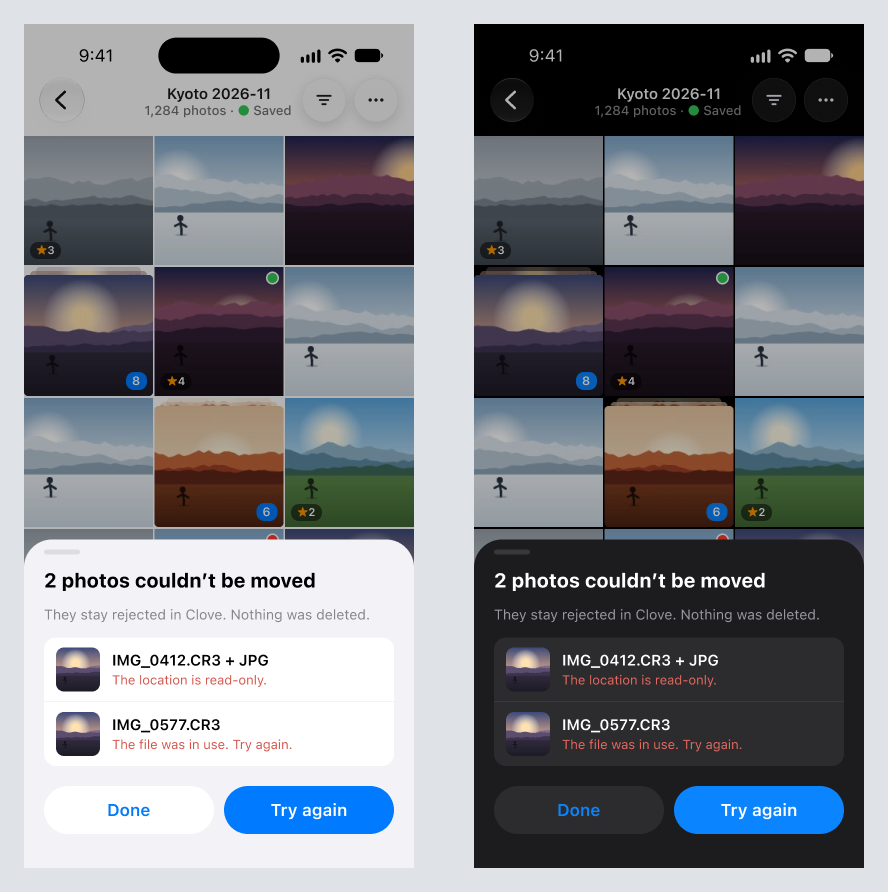
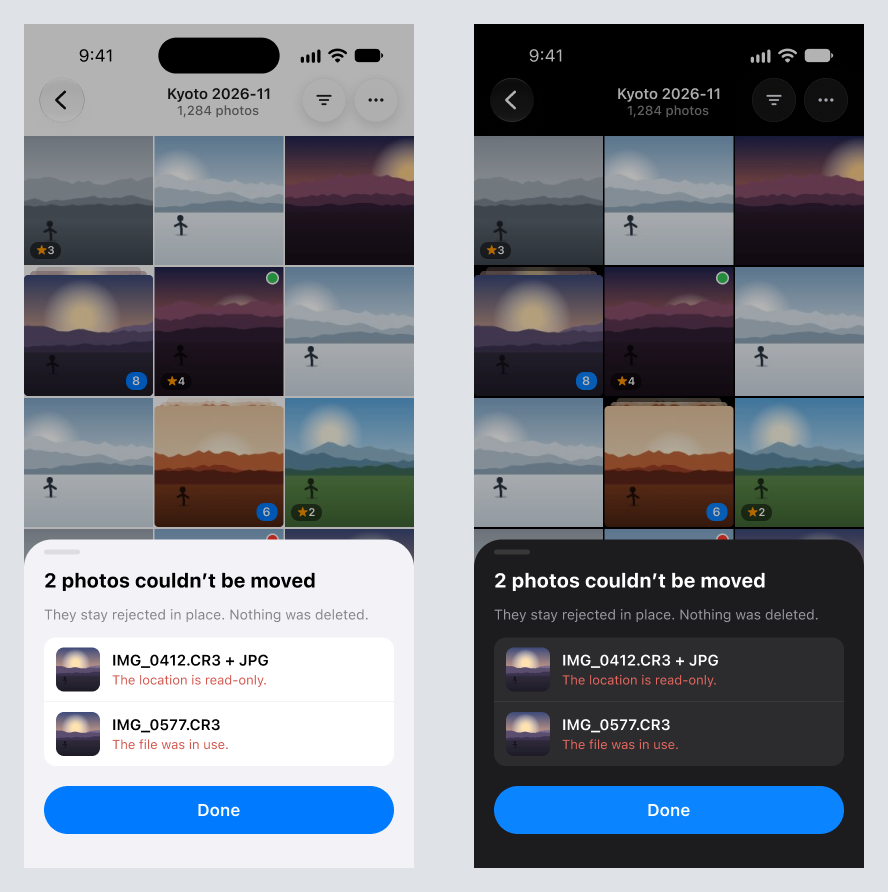
Sync the design handoff frames with the app on main
Update the Figma frames and the handoff to match what main (7470617)
builds: no save status anywhere, groups culled in detail with the
Reject N unmarked pill, rejected photos bright with a corner glyph, the
save and read failure toasts, glyphs for Not connected and View only,
and a Done-only Couldn't move sheet. Add provisional iPad sidebar,
Locations and rejected frames, a Duo rejected frame, and a proposal
frame for the swipe star bar's cleared step (#125). Removed frames and
the 10 Nov versions of redrawn ones move to the Figma Archive page.

Claude-Session: https://claude.ai/code/session_01NdeqBr3nLyagZRGCvsx2vS

diff --git a/design/handoff/screens.md b/design/handoff/screens.md
@@ -47,13 +47,13 @@ Devices:
 | [Default](https://www.figma.com/design/xJcgQ7FziNyPM7UToZvkmq/Clove-%E2%80%94-Native-concept?node-id=159-1596) · [png](screens/02-grid-default.png) | 159:1596 |
 | [Filter menu](https://www.figma.com/design/xJcgQ7FziNyPM7UToZvkmq/Clove-%E2%80%94-Native-concept?node-id=159-2251) · [png](screens/02-grid-filter-menu-unmarked-active.png) | 159:2251 |
 | [Select mode](https://www.figma.com/design/xJcgQ7FziNyPM7UToZvkmq/Clove-%E2%80%94-Native-concept?node-id=176-2767) · [png](screens/02-grid-select-mode-batch-capsule.png) | 176:2767 |
-| [Batch result](https://www.figma.com/design/xJcgQ7FziNyPM7UToZvkmq/Clove-%E2%80%94-Native-concept?node-id=176-3424) · [png](screens/02-grid-batch-result-partial-failure.png) | 176:3424 |
+| [Read failure toast](https://www.figma.com/design/xJcgQ7FziNyPM7UToZvkmq/Clove-%E2%80%94-Native-concept?node-id=243-3739) · [png](screens/02-grid-read-failure-toast.png) | 243:3739 |
 | [Opening 1: reading](https://www.figma.com/design/xJcgQ7FziNyPM7UToZvkmq/Clove-%E2%80%94-Native-concept?node-id=211-1741) · [png](screens/02-grid-opening-1-reading-photos.png) | 211:1741 |
 | [Opening 2: grouping](https://www.figma.com/design/xJcgQ7FziNyPM7UToZvkmq/Clove-%E2%80%94-Native-concept?node-id=211-2332) · [png](screens/02-grid-opening-2-finding-similar-shots.png) | 211:2332 |
 | ["…" menu and no-preview tile](https://www.figma.com/design/xJcgQ7FziNyPM7UToZvkmq/Clove-%E2%80%94-Native-concept?node-id=213-1422) · [png](screens/02-grid-more-menu-no-preview-tile.png) | 213:1422 |
 
 **Default**
-- The top bar has Back, the folder title, the subtitle "1,284 photos · ● Saved", then the **Filter** and **"…"** icon buttons. There is no filter bar, status row or bottom toolbar.
+- The top bar has Back, the folder title, the subtitle "1,284 photos", then the **Filter** and **"…"** icon buttons. There is no filter bar, status row or bottom toolbar.
 - A **group** of similar shots is one stacked tile with a count badge in `group`. Tapping it opens detail on the first unmarked member, or the first member if all are marked, with the filmstrip group expanded. A single photo opens detail.
 - A **rejected** photo is dimmed (`opacity/rejected`) with no ✕ badge. The rating badge and label dot stay. The RAW+JPEG badge is only in Info.
 - **Move Rejects** is a 48 pt round glass icon button (a tray with a down arrow) at the bottom right. It has no count and shows only when rejects exist. It always opens the confirm sheet first.
@@ -62,7 +62,7 @@ Devices:
 
 **Select mode**: the title becomes "7 selected" and **Done** replaces Filter, "…" and Move Rejects. Selected tiles get the standard blue check, the only place a check is used. The same mark capsule as detail appears and applies to the whole selection.
 
-**Batch result**: a toast above the capsule says "Saved 5 · 2 failed · Retry".
+**Read failure toast**: when a sidecar can't be read while a folder opens, one glass toast at the bottom (the Move Rejects toast position) says "Couldn't read some marks." It has no action and hides after about 6 seconds. There is no save status anywhere: no Saved dot, no Saving pulse, no batch result toast. A failed batch mark shows the save failure toast below.
 
 **Opening a folder.** There is no blocking screen. The grid shows straight away.
 - Stage 1, reading: the subtitle is "412 of 1,284", a 2 pt line under the toolbar fills in `accent`, unread cells are plain placeholders, and there are no stacks yet. Existing XMP marks appear as they are read.
@@ -80,13 +80,14 @@ Devices:
 | [Label popover](https://www.figma.com/design/xJcgQ7FziNyPM7UToZvkmq/Clove-%E2%80%94-Native-concept?node-id=154-1653) · [png](screens/03-detail-label-popover-open.png) | 154:1653 |
 | [Swipe-up star bar](https://www.figma.com/design/xJcgQ7FziNyPM7UToZvkmq/Clove-%E2%80%94-Native-concept?node-id=154-1968) · [png](screens/03-detail-swipe-up-star-bar.png) | 154:1968 |
 | [Info sheet](https://www.figma.com/design/xJcgQ7FziNyPM7UToZvkmq/Clove-%E2%80%94-Native-concept?node-id=157-1584) · [png](screens/03-detail-info-sheet.png) | 157:1584 |
-| [Rejected](https://www.figma.com/design/xJcgQ7FziNyPM7UToZvkmq/Clove-%E2%80%94-Native-concept?node-id=176-2070) · [png](screens/03-detail-rejected.png) | 176:2070 |
-| [Save failed](https://www.figma.com/design/xJcgQ7FziNyPM7UToZvkmq/Clove-%E2%80%94-Native-concept?node-id=176-2301) · [png](screens/03-detail-save-failed.png) | 176:2301 |
+| [Rejected (corner glyph)](https://www.figma.com/design/xJcgQ7FziNyPM7UToZvkmq/Clove-%E2%80%94-Native-concept?node-id=176-2070) · [png](screens/03-detail-rejected.png) | 176:2070 |
+| [Save failure toast](https://www.figma.com/design/xJcgQ7FziNyPM7UToZvkmq/Clove-%E2%80%94-Native-concept?node-id=176-2301) · [png](screens/03-detail-save-failure-toast.png) | 176:2301 |
 | [100% zoom](https://www.figma.com/design/xJcgQ7FziNyPM7UToZvkmq/Clove-%E2%80%94-Native-concept?node-id=176-2532) · [png](screens/03-detail-100pct-zoom-chrome-hidden.png) | 176:2532 |
+| [Swipe star bar: cleared step (proposal, #125)](https://www.figma.com/design/xJcgQ7FziNyPM7UToZvkmq/Clove-%E2%80%94-Native-concept?node-id=244-1984) · [png](screens/03-detail-swipe-star-bar-cleared-step-proposal.png) | 244:1984 |
 
 **Default**
 - The photo sits on `bg/stage`.
-- The top bar has Back, the filename as the title, and the subtitle "1 / 11 · + JPG · ● Saved". On the right are **Info (ⓘ)** and **Undo**.
+- The top bar has Back, the filename as the title, and the subtitle "1 / 11 · + JPG" (no loading or save label). On the right are **Info (ⓘ)** and **Undo**.
 - Marks appear **once**, in the floating glass **mark capsule** above the home indicator. Left to right: the reject circle, 5 stars, and the label circle.
 - The **filmstrip** floats just above the capsule. Both fade out while zoomed, and tapping the photo toggles them.
 
@@ -96,35 +97,35 @@ Devices:
 
 **Info sheet** (medium detent, read-only in the MVP)
 - Capture: time with subseconds, camera and serial, lens, exposure.
-- File: folder, size, RAW+JPEG pairing, marks and where they are stored (XMP), and save status.
+- File: folder, size, RAW+JPEG pairing, and marks and where they are stored (XMP). There is no save status line.
 
 **Rejected**: the capsule's reject circle is filled and the stars and label go neutral. The photo stays at full brightness. A 22 pt `xmark` in a filled `reject` circle sits in the stage's top-trailing corner, inset 8 pt inside the safe area. It stays fixed during zoom and pan and remains visible with the chrome hidden. It ignores taps; VoiceOver includes "Rejected" in the photo's label and skips the decorative glyph. Rejected has no subtitle word.
 
-The `03-detail-rejected` frame is out of date on the photo dimming and missing corner glyph. Follow this behavior specification.
+**Save failure toast**: when a mark can't be written, one glass toast says "Couldn't save the mark." with no action, and the photo goes back to the marks in its file. There is no subtitle status and no Retry. One toast per failure burst; it hides after about 6 seconds. In the frame it sits above the filmstrip so it doesn't cover the capsule; the build currently draws it at the bottom edge over the capsule (see the note in `decisions-log.md`).
 
-**Save failed**: the subtitle is "1 / 11 · ● Save failed · Retry", in `status/failed`, and Retry is tappable. The marks stay as set.
+**Swipe star bar: cleared step (proposal, #125, not reviewed)**: a quick swipe down from a rated photo now stops at 0 before Reject. The proposal shows three stops on a 3★ photo: A start (no chip), B cleared (all stars empty, the chip slot shows `star.slash` in `text/secondary`), C reject (the chip fills in `reject` with a white ✕ and the stars dim). The bar stays fixed at the right edge (#134). Waiting on the designer.
 
 **100% zoom**: the capsule, filmstrip, Info and Undo hide. The subtitle shows "100%", and a small "100%" chip fades out.
 
 In every filmstrip, rejected thumbnails are dimmed and have no badge.
 
-## 04 Groups in detail (old frames out of date)
+## 04 Groups in detail
 
-The frames below predate the owner decision of 2026-11-12 and are out of date. Group culling now uses the detail screen with its group expanded in place.
+There is no group review screen. A stack opens the normal detail screen with its group expanded in the filmstrip. There is no group header, no undecided count, no Continue → and no "Undecided only" menu.
 
 | State | Node |
 |---|---|
-| [In progress (iPhone)](https://www.figma.com/design/xJcgQ7FziNyPM7UToZvkmq/Clove-%E2%80%94-Native-concept?node-id=173-1950) · [png](screens/04-group-in-progress-iphone.png) | 173:1950 |
-| [Group done (iPhone)](https://www.figma.com/design/xJcgQ7FziNyPM7UToZvkmq/Clove-%E2%80%94-Native-concept?node-id=173-2193) · [png](screens/04-group-group-done-iphone.png) | 173:2193 |
-| [iPad](https://www.figma.com/design/xJcgQ7FziNyPM7UToZvkmq/Clove-%E2%80%94-Native-concept?node-id=214-2931) · [png](screens/04-group-ipad.png) | 214:2931 |
-| [Duo expanded](https://www.figma.com/design/xJcgQ7FziNyPM7UToZvkmq/Clove-%E2%80%94-Native-concept?node-id=214-3214) · [png](screens/04-group-duo-expanded.png) | 214:3214 |
+| [iPhone](https://www.figma.com/design/xJcgQ7FziNyPM7UToZvkmq/Clove-%E2%80%94-Native-concept?node-id=173-1950) · [png](screens/04-groups-in-detail-iphone.png) | 173:1950 |
+| [iPad (provisional)](https://www.figma.com/design/xJcgQ7FziNyPM7UToZvkmq/Clove-%E2%80%94-Native-concept?node-id=214-2931) · [png](screens/04-groups-in-detail-ipad.png) | 214:2931 |
+| [Duo expanded (photo only)](https://www.figma.com/design/xJcgQ7FziNyPM7UToZvkmq/Clove-%E2%80%94-Native-concept?node-id=214-3214) · [png](screens/04-groups-in-detail-duo-expanded.png) | 214:3214 |
 
 - A grid stack opens detail at its first unmarked member, or its first member when all are marked. The ordinary detail header and controls remain.
 - The current group expands in the grid-order filmstrip; rejected thumbnails are dimmed and rated ones show stars.
 - Zoom and pan stay synced within the group. Leaving it follows the detail setting.
 - **Reject N unmarked** is a pill centred in its own row above the strip. It requires a rated or labeled visible member and at least one unmarked visible member, and never touches existing marks or hidden photos. Undo restores the action together and returns to the photo shown at submission.
 - The pill hides with chrome or when marking is off, and disappears when nothing remains to reject. It stays clear of the capsule and swipe star bar.
-- Auto-advance visits unmarked members, then the first photo after the group in grid order. No group sidebar remains; iPad and Duo detail layouts are separate work.
+- Auto-advance visits unmarked members, then the first photo after the group in grid order. No group sidebar remains.
+- On iPad and Duo the pill sits centred at the bottom of the photo stage, above the filmstrip, never under the rail or dock.
 
 ## 05 Move Rejects
 
@@ -140,17 +141,28 @@ The frames below predate the owner decision of 2026-11-12 and are out of date. G
 - **Quick grid**: tapping the stack expands the sheet into a 4-column grid of the rejects, all dimmed. Tapping a photo keeps it: it returns to full brightness with no badge, and the button updates to "41 of 42 will move" / "Move 41". Keeping clears that photo's reject flag, but only when Move is tapped; cancelling the sheet discards the keeps. Undo restores both the move and the flags.
 - **Done**: the moved photos leave the grid, and a glass toast says "Moved 42 to _Rejected" with **Undo**.
 - **Partial failure**: the toast says "Moved 40 to _Rejected", then "2 couldn't be moved" in `reject`, with **Details**.
-- **Details sheet**: the title is "2 photos couldn't be moved" and the subtitle is "They stay rejected in Clove. Nothing was deleted." There is one row per photo set, with a thumbnail, the file name and the reason in `reject`, then **Done** and **Try again**.
+- **Details sheet**: the title is "2 photos couldn't be moved" and the subtitle is "They stay rejected in place. Nothing was deleted." There is one row per photo set, with a thumbnail, the file name and the reason in `reject`, then one **Done** button. There is no Try again.
 
 ## 06–07 iPad
 
 | State | Node |
 |---|---|
-| [Grid](https://www.figma.com/design/xJcgQ7FziNyPM7UToZvkmq/Clove-%E2%80%94-Native-concept?node-id=166-1836) · [png](screens/06-ipad-grid.png) | 166:1836 |
-| [Detail](https://www.figma.com/design/xJcgQ7FziNyPM7UToZvkmq/Clove-%E2%80%94-Native-concept?node-id=166-2591) · [png](screens/06-ipad-detail.png) | 166:2591 |
+| [Grid (provisional)](https://www.figma.com/design/xJcgQ7FziNyPM7UToZvkmq/Clove-%E2%80%94-Native-concept?node-id=166-1836) · [png](screens/06-ipad-grid.png) | 166:1836 |
+| [Grid: Locations, subfolder selected (provisional)](https://www.figma.com/design/xJcgQ7FziNyPM7UToZvkmq/Clove-%E2%80%94-Native-concept?node-id=243-1957) · [png](screens/06-ipad-grid-locations-subfolder.png) | 243:1957 |
+| [Detail (provisional)](https://www.figma.com/design/xJcgQ7FziNyPM7UToZvkmq/Clove-%E2%80%94-Native-concept?node-id=166-2591) · [png](screens/06-ipad-detail.png) | 166:2591 |
+| [Detail: rejected (provisional)](https://www.figma.com/design/xJcgQ7FziNyPM7UToZvkmq/Clove-%E2%80%94-Native-concept?node-id=243-2691) · [png](screens/06-ipad-detail-rejected.png) | 243:2691 |
 
-- **Grid**: the sidebar is the filter (All, photo-bearing subfolders, Unmarked, Rejected, ratings, labels), so there is no Filter button. Locations appears only when photos occupy more than one folder. There is no `_Rejected · Skipped` row. Similar groups shows a count and a small regroup glyph, replaced by progress while grouping runs, with no "Analyzed" word. The top right has Move Rejects and "…", as 40 pt glass icon buttons. Move Rejects is never at the bottom right on iPad. The selected filter names the grid, with the photo count below it. Stacks and dimmed rejects work as on iPhone. Detail and Settings open full screen with a back button named after the current filter, such as "‹ All" or "‹ Unmarked". The old grid-beside-detail layout is removed.
-- **Detail**: the 96 pt right rail replaces the capsule and has a vertical 5-star bar that fills from the bottom, the reject circle, and the label dots. The rail never hides: a single tap or zoom hides the filmstrip, the Reject N unmarked pill and the top bar buttons, while the stage keeps its size. Swipe marking stays on the photo, with the rail's stars previewing the live rating. Info and Undo are 40 pt glass buttons in the top bar. There is no sync-zoom control, no "Saved" label and no keyboard hints.
+The iPad frames were drawn before the sidebar (#170) and the detail rail (#174) were built. Where a frame disagrees with the build, the build wins.
+
+- **Sidebar**, top to bottom, a plain list with one selected row:
+  - **Header**: the folder name and the source line ("External SSD · T7 Shield"), with no save word.
+  - **Locations**: "All" with the photo count, then one row per subfolder that holds photos (`DCIM/100CANON`). The section appears only when photos occupy more than one folder. `_Rejected` isn't listed and there is no "Skipped" row.
+  - **Filters**: Unmarked, Rejected, then one "★n+" row for each rating that has photos.
+  - **Color labels**: one row per label in use, with its dot, name and count. Hidden when no photo has a label.
+  - **Similar groups**: one row, "86 groups", with a small regroup glyph button (Find similar shots again). A spinner replaces the button while grouping runs. There is no "Analyzed" word. Hidden when similar groups are off.
+- **Grid**: the title is the selected sidebar row's name ("All", "Unmarked", "Red", "DCIM/100CANON") and the subtitle is the count ("1,284 photos"). There is no Filter button. The top right has Move Rejects (only when rejects exist) and "…", as 40 × 40 glass icon buttons. Move Rejects is never at the bottom right on iPad. Stacks and dimmed rejects work as on iPhone.
+- **Detail** and Settings open full screen with a back button named after the selected row, such as "‹ All" or "‹ Unmarked". The old grid-beside-detail layout is removed. A 96 pt right rail replaces the capsule. It sits beside the stage, never over it, and never hides: a single tap or zoom hides the filmstrip, the Reject N unmarked pill and the top bar buttons, while the stage keeps its size. Top to bottom: a vertical 5-star bar that fills from the bottom (tap, or drag and release), a hairline, the reject circle, a hairline, and the five label dots, tapped directly with no popover. The current label has a ring. Tapping the current rating or label clears it. Each rail control has a hover tooltip with its VoiceOver label (the frame shows "Reject"). Info and Undo are 40 × 40 in the top bar. Swipe marking on the photo still works; the rail stars show the live value. There are no keyboard hints.
+- **Rejected**: the rail's reject circle is filled, the stars and dots go neutral, and the corner glyph sits in the stage's top-trailing corner, left of the rail.
 - **Filmstrip** (at the bottom, following grid order): every group except the current one is collapsed into one stacked tile with a count badge in `group`. The current group is expanded in place on a tint of `group` at 25% layer opacity, with no outline. The current frame has a thin ring in `text/primary`.
 
 ## 08–09 Duo
@@ -160,11 +172,12 @@ The frames below predate the owner decision of 2026-11-12 and are out of date. G
 | [Cover](https://www.figma.com/design/xJcgQ7FziNyPM7UToZvkmq/Clove-%E2%80%94-Native-concept?node-id=167-1856) · [png](screens/08-duo-cover-folded-outer-screen.png) | 167:1856 |
 | [Expanded: grid (default)](https://www.figma.com/design/xJcgQ7FziNyPM7UToZvkmq/Clove-%E2%80%94-Native-concept?node-id=167-2521) · [png](screens/08-duo-expanded-grid-default-full-width.png) | 167:2521 |
 | [Expanded: photo focus 30/70](https://www.figma.com/design/xJcgQ7FziNyPM7UToZvkmq/Clove-%E2%80%94-Native-concept?node-id=196-1119) · [png](screens/08-duo-expanded-photo-focus-30-70.png) | 196:1119 |
+| [Expanded: photo focus, rejected](https://www.figma.com/design/xJcgQ7FziNyPM7UToZvkmq/Clove-%E2%80%94-Native-concept?node-id=243-2960) · [png](screens/08-duo-expanded-photo-focus-rejected.png) | 243:2960 |
 | [Expanded: photo only](https://www.figma.com/design/xJcgQ7FziNyPM7UToZvkmq/Clove-%E2%80%94-Native-concept?node-id=197-1161) · [png](screens/08-duo-expanded-photo-only.png) | 197:1161 |
 | [Expanded: dock star bar](https://www.figma.com/design/xJcgQ7FziNyPM7UToZvkmq/Clove-%E2%80%94-Native-concept?node-id=217-2575) · [png](screens/08-duo-expanded-dock-star-bar-sliding.png) | 217:2575 |
 | [Expanded: dock label picker](https://www.figma.com/design/xJcgQ7FziNyPM7UToZvkmq/Clove-%E2%80%94-Native-concept?node-id=217-3348) · [png](screens/08-duo-expanded-dock-label-picker.png) | 217:3348 |
 
-**Cover**: the same grid as iPhone. The side rail holds Filter instead of Groups, and Move Rejects sits just under the status bar and Back. Select is in "…".
+**Cover**: the same grid as iPhone, with no save status. Detail on the cover is iPhone detail, including the reject corner glyph. The side rail holds Filter instead of Groups, and Move Rejects sits just under the status bar and Back. Select is in "…".
 
 **Expanded** (landscape, unfolded). The rules follow Apple's Duo guidance:
 - **The right dock** is a vertical column shared with the status bar, made of glass capsules from top to bottom:
@@ -177,6 +190,7 @@ The frames below predate the owner decision of 2026-11-12 and are out of date. G
 - **Photo focus 30/70**: tapping a photo splits the screen into the grid (30%) and the photo (70%). An 8 pt gutter with a hairline and a drag handle separates them. The split is never at 50/50 and never on the fold.
 - **Photo only**: sliding the divider all the way left gives an iPad-style detail: a full-width photo, the filename and counter centered at the top, and the filmstrip (with collapsed group stacks) at the bottom.
 - **Dock star bar**: sliding on the star button opens a vertical star bar to the left of the dock. It fills from the bottom, and the button shows the live value.
+- **Rejected**: the dock's reject circle is filled, the star button and label circle go neutral, and the corner glyph sits in the photo pane's top-trailing corner. Nothing on the Duo shows a save dot or "Saved".
 - **Dock label picker**: tapping the label circle opens a horizontal row of colors (none, red, yellow, green, blue, purple) beside it, with the current color ringed.
 
 ## 10 Duo half fold (quick refresh; the dedicated layout is 1.1)
@@ -205,11 +219,10 @@ The frames below predate the owner decision of 2026-11-12 and are out of date. G
 |---|---|
 | [Drive disconnected](https://www.figma.com/design/xJcgQ7FziNyPM7UToZvkmq/Clove-%E2%80%94-Native-concept?node-id=214-1484) · [png](screens/12-errors-drive-disconnected.png) | 214:1484 |
 | [Lost access](https://www.figma.com/design/xJcgQ7FziNyPM7UToZvkmq/Clove-%E2%80%94-Native-concept?node-id=214-2083) · [png](screens/12-errors-lost-access.png) | 214:2083 |
-| [Leaving with unsaved marks](https://www.figma.com/design/xJcgQ7FziNyPM7UToZvkmq/Clove-%E2%80%94-Native-concept?node-id=214-2682) · [png](screens/12-errors-leaving-with-unsaved-marks.png) | 214:2682 |
 
-- **Drive disconnected**: the grid dims, the subtitle reads "Not connected" (never "Saved"), and a glass banner says "The drive disconnected. Reconnect it, then reopen this folder." with **Reopen**.
-- **Lost access**: the same pattern. The subtitle reads "View only", and the banner says "Access to this folder is no longer available." with **Open**.
-- **Leaving with unsaved marks**: an alert says "Some marks haven't finished saving." with **Leave anyway** (destructive, in red) and **Wait** (the primary action).
+- **Drive disconnected**: the grid dims, the subtitle keeps the count and adds the `externaldrive.badge.xmark` glyph (VoiceOver: "Not connected"), and a glass banner says "The drive disconnected. Reconnect it, then reopen this folder." with **Reopen**.
+- **Lost access**: the same pattern. The subtitle adds the `lock.fill` glyph (VoiceOver: "View only"), and the banner says "Access to this folder is no longer available." with **Open**.
+- There is no "Leaving with unsaved marks" alert. Leaving never waits on saves.
 
 ## Not designed (build with system defaults, or ask)
 

diff --git a/design/handoff/components.md b/design/handoff/components.md
@@ -23,7 +23,8 @@ All floating controls use one glass material:
 | **Label picker** | Above the capsule (iPhone); beside the dock (Duo) | A glass capsule of 6 dots: none, red, yellow, green, blue, purple (`label/*`). The current one is ringed. Picking closes it. |
 | **Vertical star bar (swipe-up)** | iPhone detail on swipe up; Duo dock on slide | A narrow glass pill of 5 stars stacked vertically that **fill from the bottom** while dragging, plus a ✕ chip below it for the swipe-down reject. iPad rail version: 43 × 174, radius 22, padding 10, gap 6, tap or drag. |
 | **Duo dock** | Duo expanded, right edge | A vertical column under the status bar, centered on the signal icon. Back alone (36 circle), then 41 pt wide capsules (radius 20, padding 2/4, gap 2): **view tools** (Filter, "…", Info), **marks** (★ value button 36 × 48 showing "★ 2", Reject 32, Label 36; only while a photo is open), **bottom** (Undo, Move Rejects). |
-| **iPad rail** | iPad detail, right, 96 wide | The vertical star bar, a hairline, the Reject circle (40), and the label dots, top aligned with padding 18 and gap 10. |
+| **iPad rail** | iPad detail, right, 96 wide | The vertical star bar, a hairline, the Reject circle (40), and the label dots, top aligned with padding 18 and gap 10. It sits beside the stage and never hides. Label dots are tapped directly (no popover); the current one has a ring. Each control has a hover tooltip (`.help`) with its VoiceOver label: a small `surface/card` pill, radius 6, 12 pt text, to the left of the control. |
+| **iPad sidebar** | iPad grid, left, 280 wide | Folder name and source, then Locations (only with subfolders), Filters (Unmarked, Rejected, one ★n+ row per rating that has photos), Color labels (only labels in use) and Similar groups (one row with a regroup glyph button; a spinner while grouping). One selected row in `accent`. Counts trail each row. |
 | **Split divider** | Duo expanded, photo focus | An 8 pt gutter with a hairline in `separator` and a small centered drag handle. Snap points: 30/70 and photo only. Never 50/50. |
 
 ## Grid
@@ -43,7 +44,7 @@ All floating controls use one glass material:
 |---|---|
 | **Photo stage** | The photo is aspect fit on `bg/stage`. It is never tinted or dimmed, including when rejected. Double-tap zooms to 100%. |
 | **Detail reject glyph** | A white `xmark` in a 22 pt filled `reject` circle, inset 8 pt in the stage's top-trailing corner inside the safe area. Shown only for rejected photos. Fixed while zooming or panning and visible with chrome hidden. Decorative and ignores taps. VoiceOver reads "Rejected" in the photo label, with no separate glyph element. |
-| **Nav title and subtitle** | The filename (or folder name), with a subtitle built from counts and companion segments joined by " · ". Only folder access problems add an indicator: Not connected or View only. |
+| **Nav title and subtitle** | The filename (or folder name), with a subtitle built from counts and companion segments joined by " · ". Only folder access problems add an indicator: the `externaldrive.badge.xmark` or `lock.fill` glyph in `text/secondary` after the count, with "Not connected" or "View only" as its VoiceOver label. No save dot, Saved, Saving or loading word. |
 | **Filmstrip** | Thumbnails 54 × 60 with a gap of 8. Follows grid order. **Other groups** are collapsed to one stacked thumbnail with a count badge (radius 8, `group`). The **current group** is expanded in place on a rounded rectangle (radius 9, padding 3, gap 3) of `group` at **25% layer opacity**, with no outline. The **current frame** has a 1.5–2 pt ring in `text/primary` (radius 5). Rejected thumbnails are dimmed. The Reject N unmarked pill sits centred in its own row above the strip, with space clear of the capsule and swipe star bar. |
 | **100% chip** | A small glass pill reading "100%", fading out after about 1 s. |
 | **Info sheet** | System sheet at the medium detent, with grouped list sections Capture and File. |
@@ -53,12 +54,12 @@ All floating controls use one glass material:
 | Component | Spec |
 |---|---|
 | **Progress line** | 2 pt high, full width under the toolbar. Fills in `accent` while reading and in `group` while grouping. Hidden when done. |
-| **Toast** | A glass pill, 358 × 55, radius 26, padding 18/8, gap 12. Text on the left (with an optional second line in `reject`) and a button on the right (Undo or Details, a 72 × 38 capsule in `accent`). Sits above the capsule or the Move Rejects button. Auto-hides after about 6 s; Undo stays available in the top bar. |
+| **Toast** | A glass pill, 358 × 55, radius 26, padding 18/8, gap 12. Text on the left (with an optional second line in `reject`) and a button on the right (Undo or Details, a 72 × 38 capsule in `accent`). Sits above the capsule or the Move Rejects button. Auto-hides after about 6 s; Undo stays available in the top bar. **Failure toast** variant: one line, no button: "Couldn't save the mark." or "Couldn't read some marks." In detail it sits above the filmstrip. |
 | **Banner** (errors) | A glass card pinned under the toolbar, with the message, then one button (Reopen or Open). The grid behind it is dimmed. |
 | **Alert** | A system alert. The destructive option is red, and the safe option is bold. |
 | **Pill action** (detail) | A glass capsule centred in its own row above the filmstrip: "Reject 6 unmarked" (text in `reject`). Requires both a rated or labeled visible member and an unmarked visible member. Hides with chrome, when marking is off, or when no unmarked photos remain; nothing replaces it. |
 | **Move Rejects sheet** | A small detent. A fanned stack of 3–4 reject thumbnails (tap to expand into a 4-column quick grid), the title, a one-line explanation, and a full-width **Move** button in `accent`. |
-| **Couldn't move sheet** | A list sheet with rows of a thumbnail, file name and reason (in `reject`), then **Done** and **Try again**. |
+| **Couldn't move sheet** | A list sheet with rows of a thumbnail, file name and reason (in `reject`), then one full-width **Done**. No Try again. |
 
 ## Entry and Settings
 

diff --git a/design/handoff/interactions.md b/design/handoff/interactions.md
@@ -5,7 +5,7 @@ Items tagged **(proposed)** were not reviewed in the design. They are sensible d
 ## Core model
 
 - A **mark** is a rating and a label (none or one of 5 colors). The rating can be −1, which is Reject, so a photo is never rated and rejected at once: rejecting replaces the stars, and undoing restores them. Marks are written to the photo's XMP sidecar, in the folder where the photos live; a standalone JPEG/HIF keeps its rating and label in Clove. Nothing is imported or copied.
-- Every mark appears at once and saves in user action order. A pending mark is shown until its write finishes; otherwise the files supply the marks. There is no save status. Only folder access problems appear in the subtitle: "Not connected" or "View only".
+- Every mark appears at once and saves in user action order. A pending mark is shown until its write finishes; otherwise the files supply the marks. There is no save status. Only folder access problems appear in the subtitle, as a glyph (`externaldrive.badge.xmark` or `lock.fill`); "Not connected" and "View only" are its VoiceOver labels.
 - **Undo** (top bar, or the Duo dock) reverts the last mark change, a "Reject N unmarked", or a Move Rejects. It is a stack and works across photos.
 - **Reject never deletes.** Rejected photos stay in place (dimmed in the grid and filmstrip; full brightness with a corner glyph in detail) until the person runs Move Rejects, which moves them to `_Rejected/` inside the same folder.
 
@@ -31,7 +31,7 @@ Grid ─Move Rejects─▶ Confirm sheet ─Move─▶ Grid + toast (Undo / Deta
 | Grid | "…" ▶ Select | Select mode: tap tiles to toggle, then use the capsule to mark all of them. Done exits. |
 | Detail | Swipe left or right | Next or previous photo in grid order (filtered order when a filter is on). |
 | Detail | **Swipe up** and hold | Shows the vertical star bar. Dragging up fills stars from the bottom; release commits. The capsule stars preview the live value. |
-| Detail | **Swipe down** | Reject (the ✕ chip under the star bar). Swiping down again on a rejected photo clears the reject. |
+| Detail | **Swipe down** | Reject (the ✕ chip under the star bar). Coming with #125: a quick swipe down first clears the rating to 0, then rejects; see the proposal frame `03-detail-swipe-star-bar-cleared-step-proposal`. |
 | Detail | Tap the capsule's reject, stars or label | Sets the mark directly. Tapping the current star value clears it. The label opens the picker, and picking closes it. |
 | Detail | Single tap on the photo | Hides or shows the chrome (capsule, filmstrip, top bar buttons). |
 | Detail | Double-tap or pinch | 100% zoom at the tapped point. The chrome hides. Double-tap again to fit. |
@@ -57,7 +57,8 @@ Grid ─Move Rejects─▶ Confirm sheet ─Move─▶ Grid + toast (Undo / Deta
 
 ## iPad
 
-- The sidebar is the filter. There is no Filter button, and "…" and Move Rejects are in the top bar.
+- The sidebar is the filter. Selecting a row sets the grid's filter and title, and clears any other sidebar filter. There is no Filter button, and "…" and Move Rejects are in the top bar.
+- Tapping a photo opens detail full screen; "‹ All" (the selected row's name) goes back with the same filter.
 - Detail has a right rail instead of the capsule: tap or drag the vertical star bar, tap Reject, or tap a label dot. Tapping the current rating or label clears it. The rail never hides; single tap and zoom hide the filmstrip, Reject N unmarked pill and top bar buttons while the stage keeps its size.
 - Swipe marking stays on the photo as on iPhone: swipe up to rate with live feedback in the rail's stars, and swipe down to toggle Reject.
 - Full keyboard support as above **(proposed)**. Pointer hover shows the rail's tooltips.

diff --git a/design/handoff/decisions-log.md b/design/handoff/decisions-log.md
@@ -8,6 +8,16 @@ iPad: sidebar and full grid; detail opens full screen; no grid-beside-detail lay
 
 iPad detail: the right rail replaces the capsule and never hides; swipe marking stays (supervisor, 2026-11-12, issue #150)
 
+## Figma frames synced to the build (2026-11-12)
+
+The frames on the "Clove · MVP design" page now match the app on main at `7470617` (owner's implementation notes, 2026-11-12). The 10 Nov versions of every removed or redrawn frame are on the Archive page under "Superseded · 10 Nov handoff".
+
+- **Removed:** Batch result (02), Group done (04) and Leaving with unsaved marks (12).
+- **Redrawn:** every subtitle without a save dot, Saved, Saving or loading word; Rejected (03) with the photo at full brightness and the 22 pt corner glyph; Save failed (03) as the "Couldn't save the mark." toast; the Info sheet without its save status line; the three group frames (04) as normal detail with the group expanded in the filmstrip and the pill above it; the Couldn't move sheet (05) with the new subtitle and Done only; Not connected and View only (12) as `externaldrive.badge.xmark` and `lock.fill`.
+- **iPad (provisional, #152 and #163):** the sidebar has no Skipped row and no Analyzed word, shows only ratings and labels that have photos, and has a regroup glyph button on the Similar groups row. The grid title is the selected row's name. Detail shows a rail hover tooltip.
+- **New frames:** read failure toast (02), iPad Locations with a subfolder selected, iPad detail rejected, Duo expanded photo focus rejected, and a proposal for the swipe star bar's cleared step (#125), which is open for the designer.
+- **Open:** the save failure toast. The frame puts it above the filmstrip so it doesn't cover the mark capsule; the build draws it at the bottom edge, over the capsule. One of the two should change.
+
 ## Detail shows rejects at full brightness with a corner glyph (owner, 2026-11-12)
 
 Detail keeps rejected photos at full brightness so the person can judge them. A small `xmark` in a filled `reject` circle stays in the stage's top-trailing corner during zoom and pan, including with chrome hidden. It is decorative, ignores taps and adds no status word. VoiceOver includes "Rejected" in the photo label. Grid, filmstrip and Move Rejects quick grid thumbnails keep dimming rejects without badges. This supersedes the detail dimming rule and the `03-detail-rejected` frame on this point.

diff --git a/design/handoff/README.md b/design/handoff/README.md
@@ -2,14 +2,14 @@
 
 This package is everything an implementation session needs to build the Clove MVP UI from the reviewed Figma design. It contains no code. It describes what to build and points at the exact Figma frames. For UI work it takes precedence over the screen descriptions in `docs/PRD.en.md`.
 
-**Figma file:** [Clove — Native concept](https://www.figma.com/design/xJcgQ7FziNyPM7UToZvkmq/Clove-%E2%80%94-Native-concept), page **"Clove · MVP design"**. The page "Archive · original concept" holds superseded work. **Do not build from the Archive page.**
+**Figma file:** [Clove — Native concept](https://www.figma.com/design/xJcgQ7FziNyPM7UToZvkmq/Clove-%E2%80%94-Native-concept), page **"Clove · MVP design"**. The page "Archive · original concept" holds superseded work. **Do not build from the Archive page.** The frames were last synced to the app on 12 Nov 2026 (main at `7470617`); the 10 Nov versions of changed frames are on the Archive page under "Superseded · 10 Nov handoff". The iPad frames are provisional until #152 and #163 land.
 
 ## What's in here
 
 | File | What it is | Read it when |
 |---|---|---|
 | `screens.md` | Every screen and state per device, with Figma links and behavior notes. **The main spec.** | Building any screen. |
-| `screens/` | A 1x PNG of each of the 41 frames, Light and Dark side by side. | Seeing what a state looks like without Figma. |
+| `screens/` | A 1x PNG of each of the 43 frames, Light and Dark side by side. | Seeing what a state looks like without Figma. |
 | `frames.json` | The same frame list in machine-readable form (section, name, node id, URL, device, screenshot path). | Scripting Figma MCP calls or splitting work across agents. |
 | `tokens/clove-themes.json` | All 21 tokens × 8 themes as hex, with the Swift names and usage notes. | Generating the color assets or the `Color.clove` theme struct. |
 | `tokens/tokens.md` | The same tokens as a readable table, plus the theming rules. | Checking a color by eye. |

diff --git a/design/handoff/copy.md b/design/handoff/copy.md
@@ -109,9 +109,9 @@ The pill sits centred in its own row above the filmstrip. Hide it with chrome, w
 ## Errors
 | Key | String |
 |---|---|
-| error.disconnected.subtitle | Not connected (accessibility label only) |
+| error.disconnected.subtitle | Not connected (accessibility label of the `externaldrive.badge.xmark` glyph) |
 | error.disconnected.banner | The drive disconnected. Reconnect it, then reopen this folder. |
 | error.disconnected.action | Reopen |
-| error.access.subtitle | View only (accessibility label only) |
+| error.access.subtitle | View only (accessibility label of the `lock.fill` glyph) |
 | error.access.banner | Access to this folder is no longer available. |
 | error.access.action | Open |
